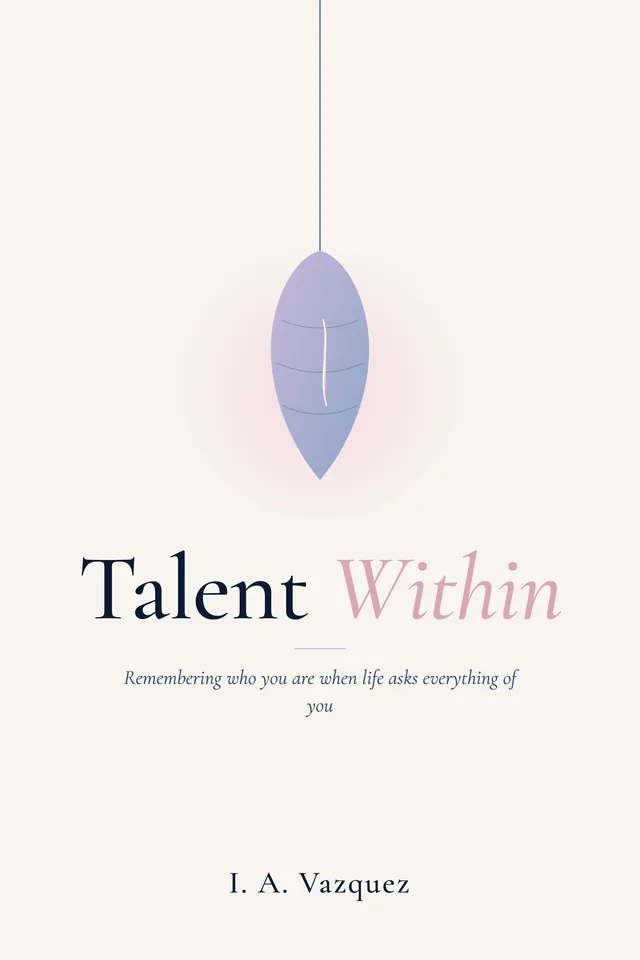
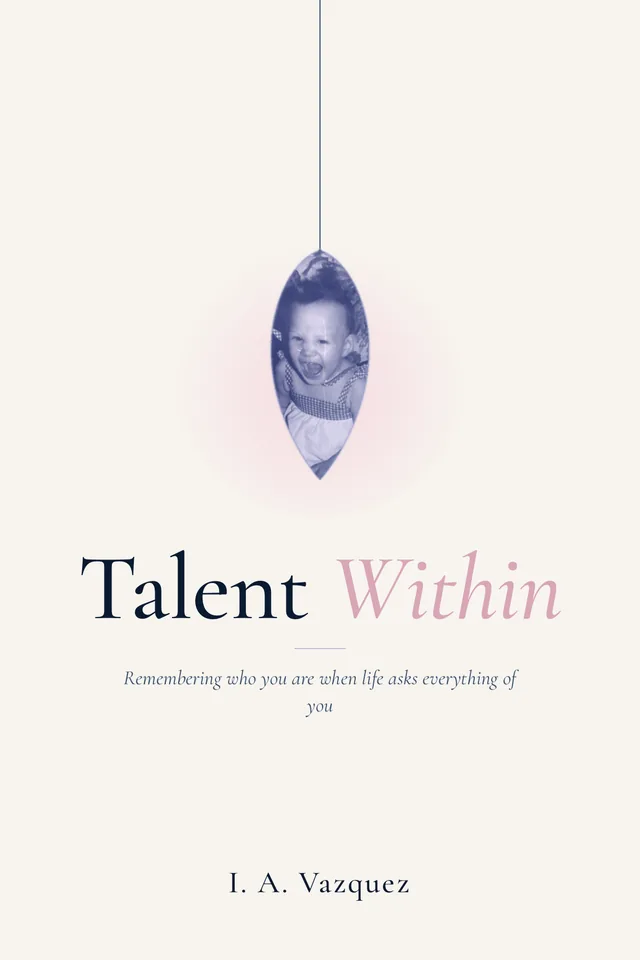
updated cover img & abt desc

diff --git a/src/content/pages.ts b/src/content/pages.ts
@@ -31,10 +31,13 @@ export const homeCopy = {
  * supplied. Everything she still needs to provide is a visible placeholder.
  */
 export const aboutCopy = {
-  // DRAFT — her signature facts rewritten in first person; no new claims.
-  intro:
-    'I’m a podcast host, nutrition coach, and talent amplifier, certified in neuropsychology. On my show I sit down with talented people and let them be heard as they are — before the world meets them.',
-  roles: ['Talent amplifier', 'Podcast host', 'Nutrition coach'],
+  // Bio in the client's own wording (her preferred About description, Oct 2026).
+  bio: [
+    'Ishah (Isha) Vazquez is a Talent Amplifier, writer, and host of the Let’s Talk for a Bit podcast. After more than 25 years in corporate America — including 18+ years in financial services, most recently as an Executive Director at a financial firm — she built her career leading teams, strengthening risk governance, and developing AI training programs. Along the way, she learned that her greatest skill was never the spreadsheets. It was spotting the talent in people that they couldn’t yet see in themselves.',
+    'Today, she has traded the corner office for the conversation. Through her consulting work, the IAV Circle community, and her podcast, Isha seeks out the “silent angels” — everyday people quietly surviving, thriving, and carrying gifts the world hasn’t noticed yet — and helps amplify them. Certified in nutrition and neuropsychology, she brings a whole-person lens to the question at the heart of everything she does: who are you when life asks everything of you?',
+    'She is the author of the article “I Bid on Myself” and is writing her first book, Talent Within: Remembering who you are when life asks everything of you, under the name I. A. Vazquez. Her mission is to create a living capsule of real human stories in the age of AI — proof that the most valuable talent is often the one hiding in plain sight.',
+  ],
+  roles: ['Talent Amplifier', 'Writer', 'Podcast host'],
   credentials: [
     // TODO(client): spell out CNC and CNP as she wants them written.
     { short: 'CNC', full: undefined as string | undefined },
@@ -112,9 +115,9 @@ export const bookCopy = {
   cover: {
     src: '/images/book/talent-within-cover.webp',
     thumb: { src: '/images/book/talent-within-cover_thumb.webp', width: 640 },
-    width: 2400,
-    height: 3600,
-    alt: 'Cover of Talent Within by I. A. Vazquez: a pale violet chrysalis hanging from a single thread above the title.',
+    width: 1200,
+    height: 1800,
+    alt: 'Cover of Talent Within by I. A. Vazquez: a leaf-shaped pendant hanging from a single thread, holding a childhood photo, above the title.',
   },
   // Lorem ipsum until the client supplies the real description, release details and purchase link.
   sample: true,

diff --git a/src/pages/AboutPage.tsx b/src/pages/AboutPage.tsx
@@ -39,7 +39,11 @@ export function AboutPage() {
               {host.name}
             </h1>
             <p className={styles.roles}>{c.roles.join(' · ')}</p>
-            <p className={styles.lead}>{c.intro}</p>
+            {c.bio.map((p) => (
+              <p key={p} className={styles.lead}>
+                {p}
+              </p>
+            ))}
             <ul className={styles.credentials} aria-label="Credentials">
               {c.credentials.map((cr) => (
                 <li key={cr.short} title={cr.full ?? 'Full title to be confirmed'}>
